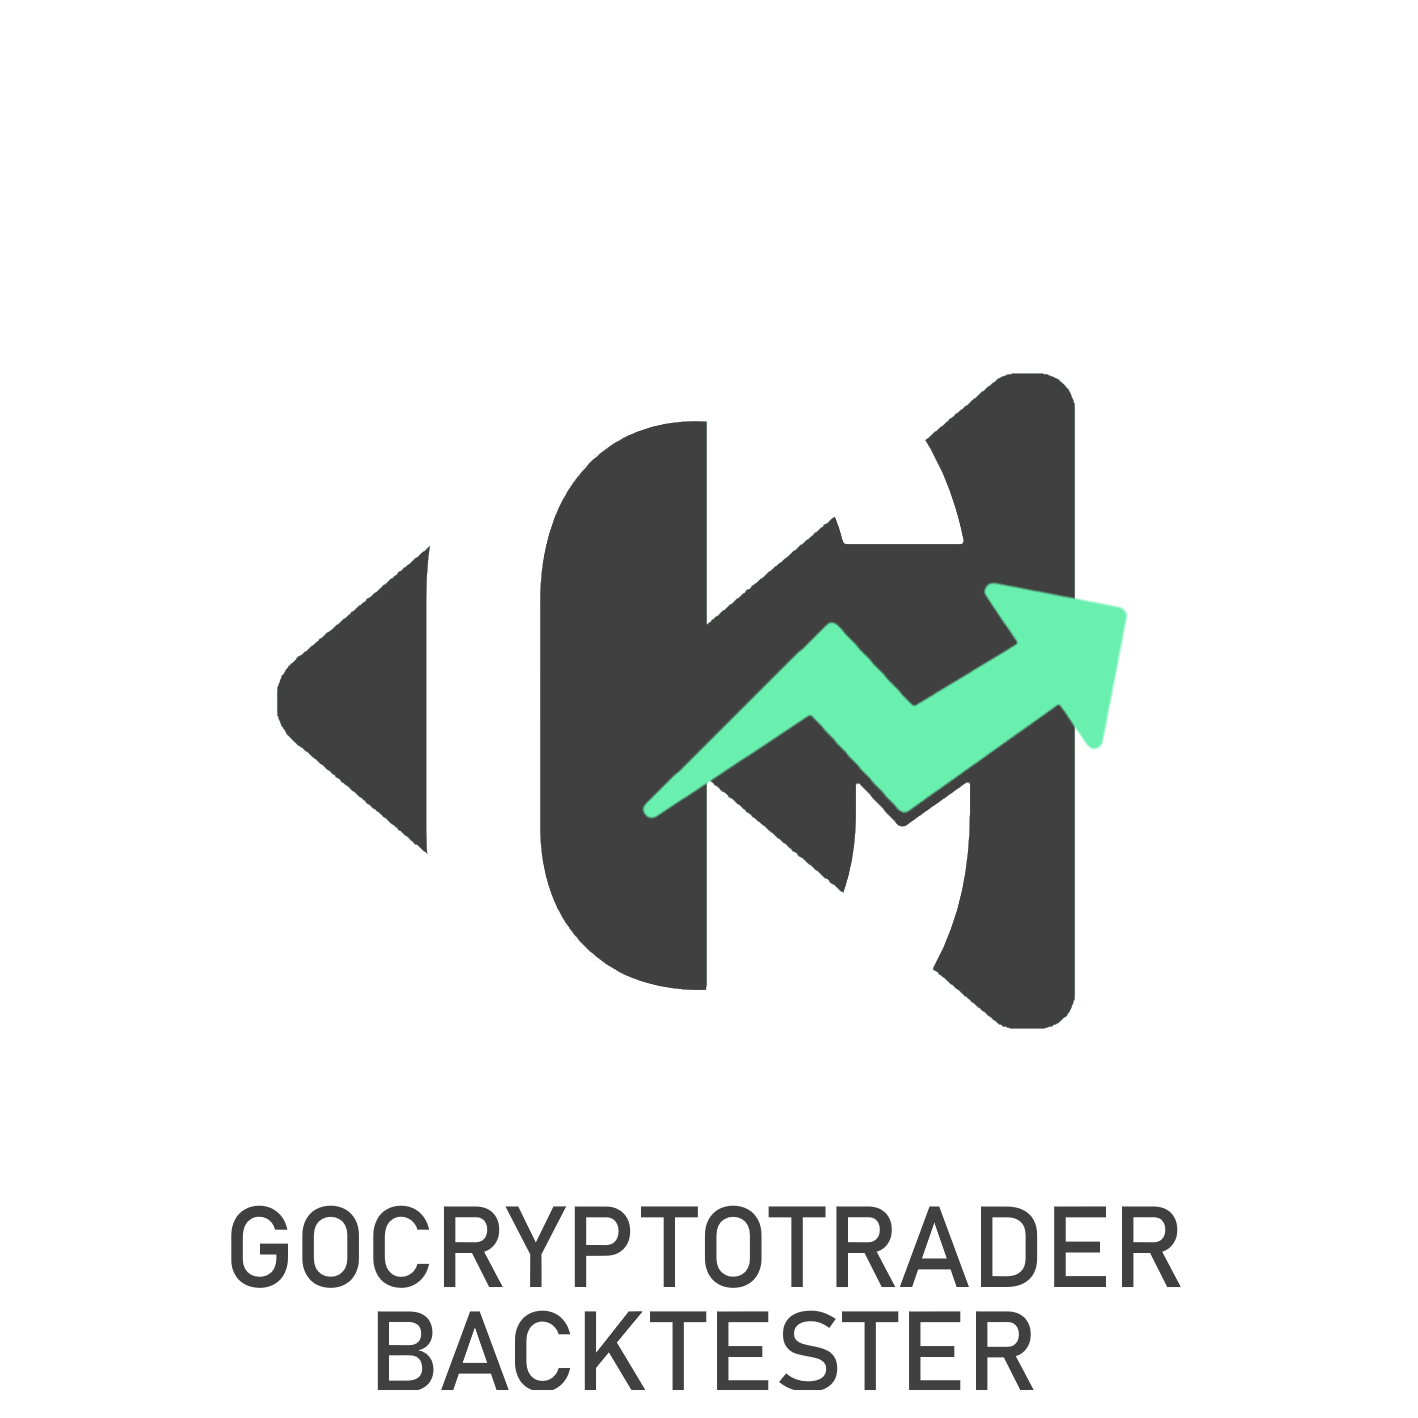
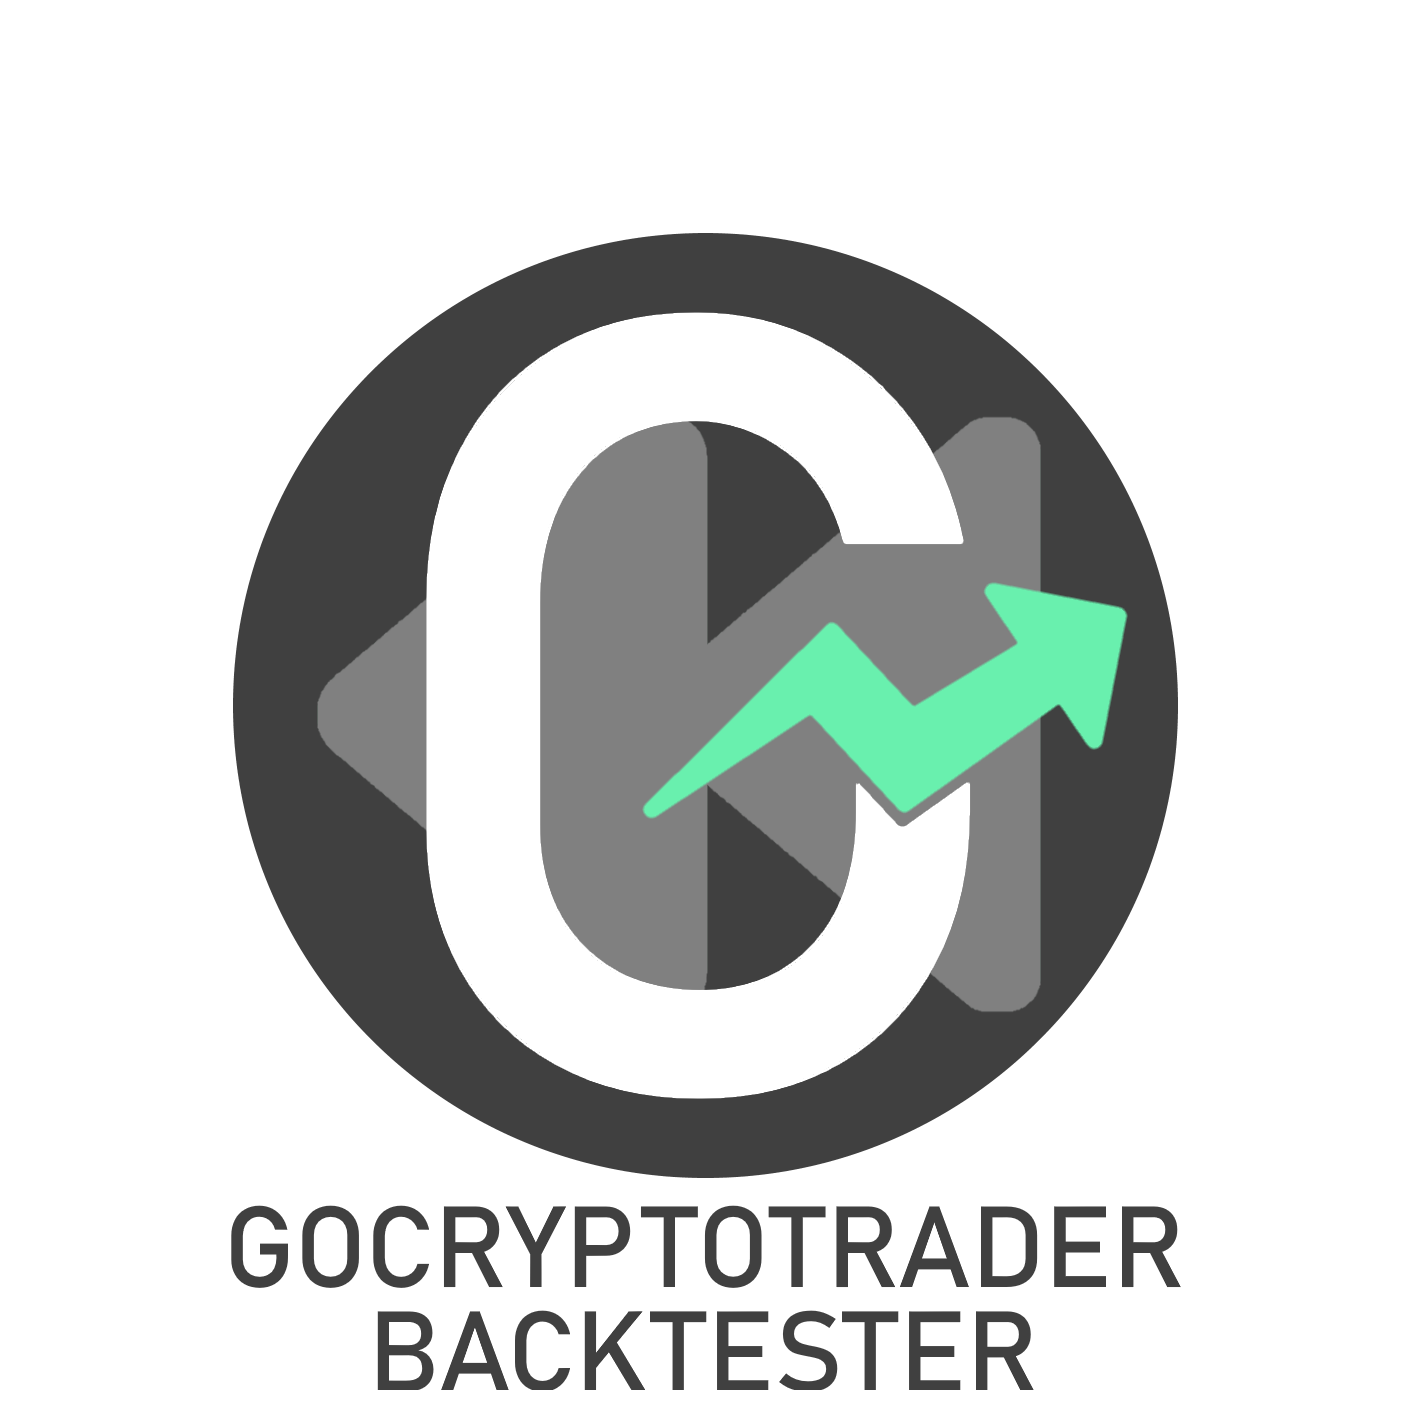
Updated image and slight change to readme

Changed region(s): [[0.1551, 0.1551, 0.8378, 0.8378]]

diff --git a/backtester/report/README.md b/backtester/report/README.md
@@ -30,7 +30,7 @@ The report utilises the following sweet technologies:
 - [lightweightcharts](https://github.com/tradingview/lightweight-charts/) by [TradingView](https://www.tradingview.com/)
 
 Output example:
-![example](https://user-images.githubusercontent.com/9261323/105282683-01d00780-5c03-11eb-813f-6035b4e05954.png)
+![example](https://user-images.githubusercontent.com/9261323/105283038-c124be00-5c03-11eb-88af-d67e727a8c16.png)
 
 
 ### Please click GoDocs chevron above to view current GoDoc information for this package
